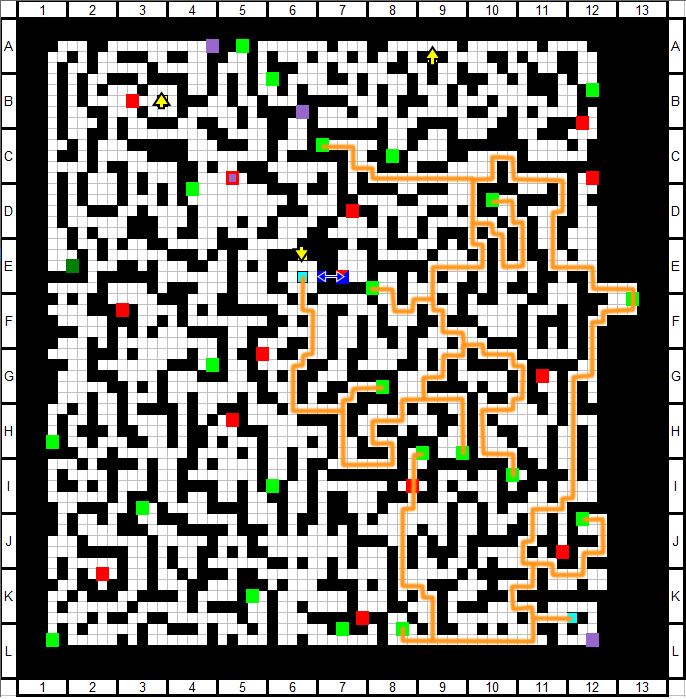
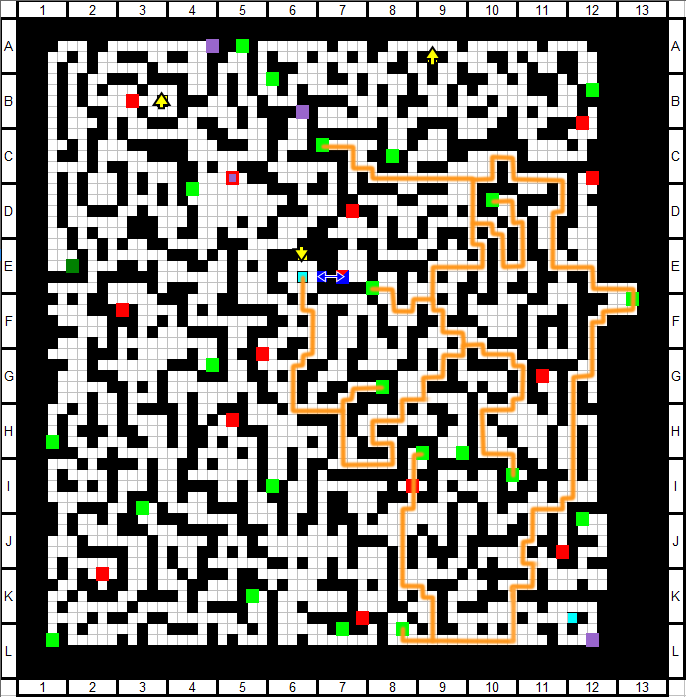
Rerouted stratum 3 trasure chests

Changed region(s): [[0.7653, 0.721, 0.8878, 0.8412], [0.6122, 0.5408, 0.7041, 0.6609], [0.7347, 0.8412, 0.8265, 0.9313]]

diff --git a/item/chests.md b/item/chests.md
@@ -189,18 +189,18 @@ Tome of Insight - HP<br>Tome of Insight - MP<br>Tome of Insight - TP<br>Training
 | Green Dream | O |
 | Light Staff | O |
 | Luster Candy | O |
-| Nitroglycerin | O |
+| Nitroglycerin | X |
 | Piece of Alexandrite x2 | O |
 | Shoes of Happiness | O |
 | Stone of Awakening | O |
-| Stormy Selenite x2 | O |
-| Strong Rugged Horns x2 | O |
-| Strong Rugged Horns x2 | O |
+| Stormy Selenite x2 | X |
+| Strong Rugged Horns x2 | X |
+| Strong Rugged Horns x2 | X |
 | Super-Hard Rye Bread | O |
 | Symbol of Faith | O |
 | Treasure Chest Key | X |
-| Floor Total | 19 |
-| Combined Total | 90 |
+| Floor Total | 15 |
+| Combined Total | 86 |
 
 #### <a id="floor-8"></a>Floor 8
 
@@ -213,7 +213,7 @@ Tome of Insight - HP<br>Tome of Insight - MP<br>Tome of Insight - TP<br>Training
 | Big Bang Waganizer | O |
 | Biggest Sword Ever | O |
 | Chario Boots | O |
-| Chitin Shell x5 | O |
+| Chitin Shell x5 | X |
 | Damascus Shield | O |
 | Flipskirt Dagger | O |
 | Hero's Medal | O |
@@ -223,14 +223,14 @@ Tome of Insight - HP<br>Tome of Insight - MP<br>Tome of Insight - TP<br>Training
 | Magician's Proof | O |
 | Mana Flower | O |
 | Piche's Bauble x2 | O |
-| Recovery Armband | O |
+| Recovery Armband | X |
 | Spellbook - High Hurricane | O |
 | Stone of Awakening | O |
 | Symbol of Faith | O |
 | Treasure Chest Key | O |
 | Ultrafast Granite Keystone | O |
-| Floor Total | 23 |
-| Combined Total | 113 |
+| Floor Total | 21 |
+| Combined Total | 107 |
 
 #### <a id="floor-9"></a>Floor 9
 
@@ -239,7 +239,7 @@ Tome of Insight - HP<br>Tome of Insight - MP<br>Tome of Insight - TP<br>Training
 | Youkai Medal Shattering Axe<br>Tome of Insight - SPD x2<br>Swiftness Gem<br>Star of Elendil | O |
 | 900 Money | O |
 | 1000 Money | O |
-| Card [Ruler of Heavens] | O |
+| Card [Ruler of Heavens] | X |
 | Century's Jacket | O |
 | Diva's Apron | O |
 | Happy Hat | O |
@@ -253,9 +253,9 @@ Tome of Insight - HP<br>Tome of Insight - MP<br>Tome of Insight - TP<br>Training
 | The Arch | O |
 | Treasure Chest Key | O |
 | Water Cutting Sword | O |
-| Youkai's Fire Blowgun x2 | O |
-| Floor Total | 18 |
-| Combined Total | 131 |
+| Youkai's Fire Blowgun x2 | X |
+| Floor Total | 16 |
+| Combined Total | 123 |
 
 #### <a id="floor-10"></a>Floor 10
 
@@ -280,7 +280,7 @@ Tome of Insight - HP<br>Tome of Insight - MP<br>Tome of Insight - TP<br>Training
 | Tisiphone Edge | O |
 | Treasure Chest Key | O |
 | Floor Total | 16 |
-| Combined Total | 147 |
+| Combined Total | 139 |
 
 #### <a id="floor-11"></a>Floor 11
 
@@ -307,7 +307,7 @@ Tome of Insight - HP<br>Tome of Insight - MP<br>Tome of Insight - TP<br>Training
 | Treasure Chest Key | O |
 | Yggdrasil Dew | O |
 | Floor Total | 19 |
-| Combined Total | 166 |
+| Combined Total | 158 |
 
 #### <a id="floor-12"></a>Floor 12
 
@@ -333,7 +333,7 @@ Tome of Insight - HP<br>Tome of Insight - MP<br>Tome of Insight - TP<br>Training
 | Treasure Chest Key | O |
 | Wallbreaker Armband | O |
 | Floor Total | 18 |
-| Combined Total | 184 |
+| Combined Total | 176 |
 
 #### <a id="floor-13"></a>Floor 13
 
@@ -354,7 +354,7 @@ Tome of Insight - HP<br>Tome of Insight - MP<br>Tome of Insight - TP<br>Training
 | T-45d Power Armor | O |
 | Training Manual | O |
 | Floor Total | 14 |
-| Combined Total | 198 |
+| Combined Total | 190 |
 
 #### <a id="floor-14"></a>Floor 14
 
@@ -380,7 +380,7 @@ Tome of Insight - HP<br>Tome of Insight - MP<br>Tome of Insight - TP<br>Training
 | Wallbreaker Armband | O |
 | Wisdom Gem | O |
 | Floor Total | 19 |
-| Combined Total | 217 |
+| Combined Total | 209 |
 
 #### <a id="floor-15"></a>Floor 15
 
@@ -414,7 +414,7 @@ Tome of Insight - HP<br>Tome of Insight - MP<br>Tome of Insight - TP<br>Training
 | Ultrafast Granite | O |
 | Youkai Medal Shattering Axe | O |
 | Floor Total | 22 |
-| Combined Total | 239 |
+| Combined Total | 231 |
 
 #### <a id="floor-16"></a>Floor 16
 
@@ -440,7 +440,7 @@ Tome of Insight - HP<br>Tome of Insight - MP<br>Tome of Insight - TP<br>Training
 | Treasure Chest Key | O |
 | Wash Basin Set | O |
 | Floor Total | 18 |
-| Combined Total | 257 |
+| Combined Total | 249 |
 
 #### <a id="floor-17"></a>Floor 17
 
@@ -463,7 +463,7 @@ Tome of Insight - HP<br>Tome of Insight - MP<br>Tome of Insight - TP<br>Training
 | War Mask of the Butcher | X |
 | Water Cutting Sword | X |
 | Floor Total | 6 |
-| Combined Total | 263 |
+| Combined Total | 255 |
 
 #### <a id="floor-18"></a>Floor 18
 
@@ -485,7 +485,7 @@ Tome of Insight - HP<br>Tome of Insight - MP<br>Tome of Insight - TP<br>Training
 | Transcendent's Proof | X |
 | Treasure Chest Key | X |
 | Floor Total | 4 |
-| Combined Total | 267 |
+| Combined Total | 259 |
 
 #### <a id="floor-19"></a>Floor 19
 
@@ -513,7 +513,7 @@ Tome of Insight - HP<br>Tome of Insight - MP<br>Tome of Insight - TP<br>Training
 | War Mask of the Butcher | X |
 | Youkai Medal Shattering Axe | X |
 | Floor Total | 5 |
-| Combined Total | 272 |
+| Combined Total | 264 |
 
 #### <a id="floor-20"></a>Floor 20
 
@@ -541,7 +541,7 @@ Tome of Insight - HP<br>Tome of Insight - MP<br>Tome of Insight - TP<br>Training
 | Wash Basin Set | O |
 | Wisdom Gem | X |
 | Floor Total | 6 |
-| Combined Total | 278 |
+| Combined Total | 270 |
 
 ## <a id="neglected-list"></a>Neglected Treasures List
 
@@ -563,6 +563,7 @@ Tome of Insight - HP<br>Tome of Insight - MP<br>Tome of Insight - TP<br>Training
 | Pure Sake Wild Boar x1 | 10F | Needs Suika |
 | HQ Sake Deer x1 | 11F | Needs Suika |
 | Pure HQ Sake Butterfly x1 | 12F | Needs Suika |
+| Recovery Armband x1 | 8F | Useless, out of way |
 | Orb of Earithin x2 | 18F | Useless, out of way |
 | Modified Taser x1 | 15F | Needs FOE kill, useless |
 | Strange Meat Pie x1 | 4F | Needs key, useless |
@@ -579,10 +580,11 @@ Tome of Insight - HP<br>Tome of Insight - MP<br>Tome of Insight - TP<br>Training
 | Scouter x1 | 20F | Useless, out of way |
 | **Sub Equip** | - | - |
 | Poison Resistance Ring x1 | 2F | Useless, out of way |
-| Nitroglycerin x2 | 3F/4F | Useless, out of way |
+| Nitroglycerin x3 | 3F/4F/7F | Useless, out of way |
 | Steadfast Ring x1 | 4F | Useless, out of way |
 | Kazu's Amulet x1 | 4F | Useless, out of way |
 | Full Custom x1 | 18F | Useless, out of way |
+| Card [Ruler of Heavens] x1 | 9F | Useless, out of way |
 | Water Cutting Sword x2 | 5F<br>17F | Needs 10k money on hand<br>Useless |
 | Luster Candy x1 | 17F | Needs FOE kill, useless |
 | Big Bang Waganizer x1 | 17F | Useless, out of way |
@@ -598,6 +600,9 @@ Tome of Insight - HP<br>Tome of Insight - MP<br>Tome of Insight - TP<br>Training
 | **Others** | - | - |
 | Magic Bird's Crest x4 | 4F | Useless, out of way |
 | Strange Mechanical Part x2 | 4F | Useless, out of way |
+| Stormy Selenite x2 | 7F | Useless, out of way |
+| Strong Rugged Horns x4 | 7F | Useless, out of way |
+| Chitin Shell x5 | 8F | Useless, out of way |
 | Hero's Soul x2 | 15F | Needs FOE kill, useless |
 | Shining Dragon's Soul x2 | 19F | Useless, out of way |
 | Rainbow Light x2 | 19F | Useless, out of way |
